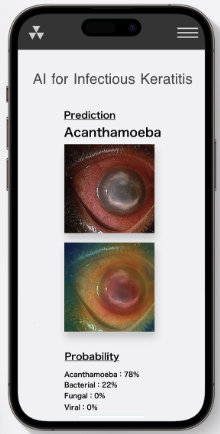
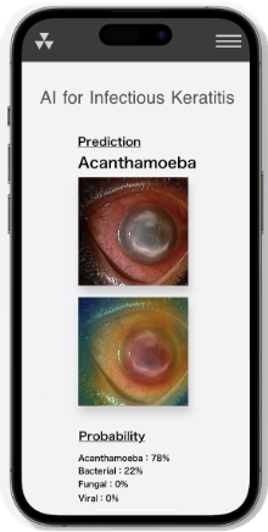
微調整

diff --git a/src/App.css b/src/App.css
@@ -268,5 +268,5 @@
 }
 
 .default-image-container {
-  margin-top: 100px;
+  margin-top: 50px;
 }
